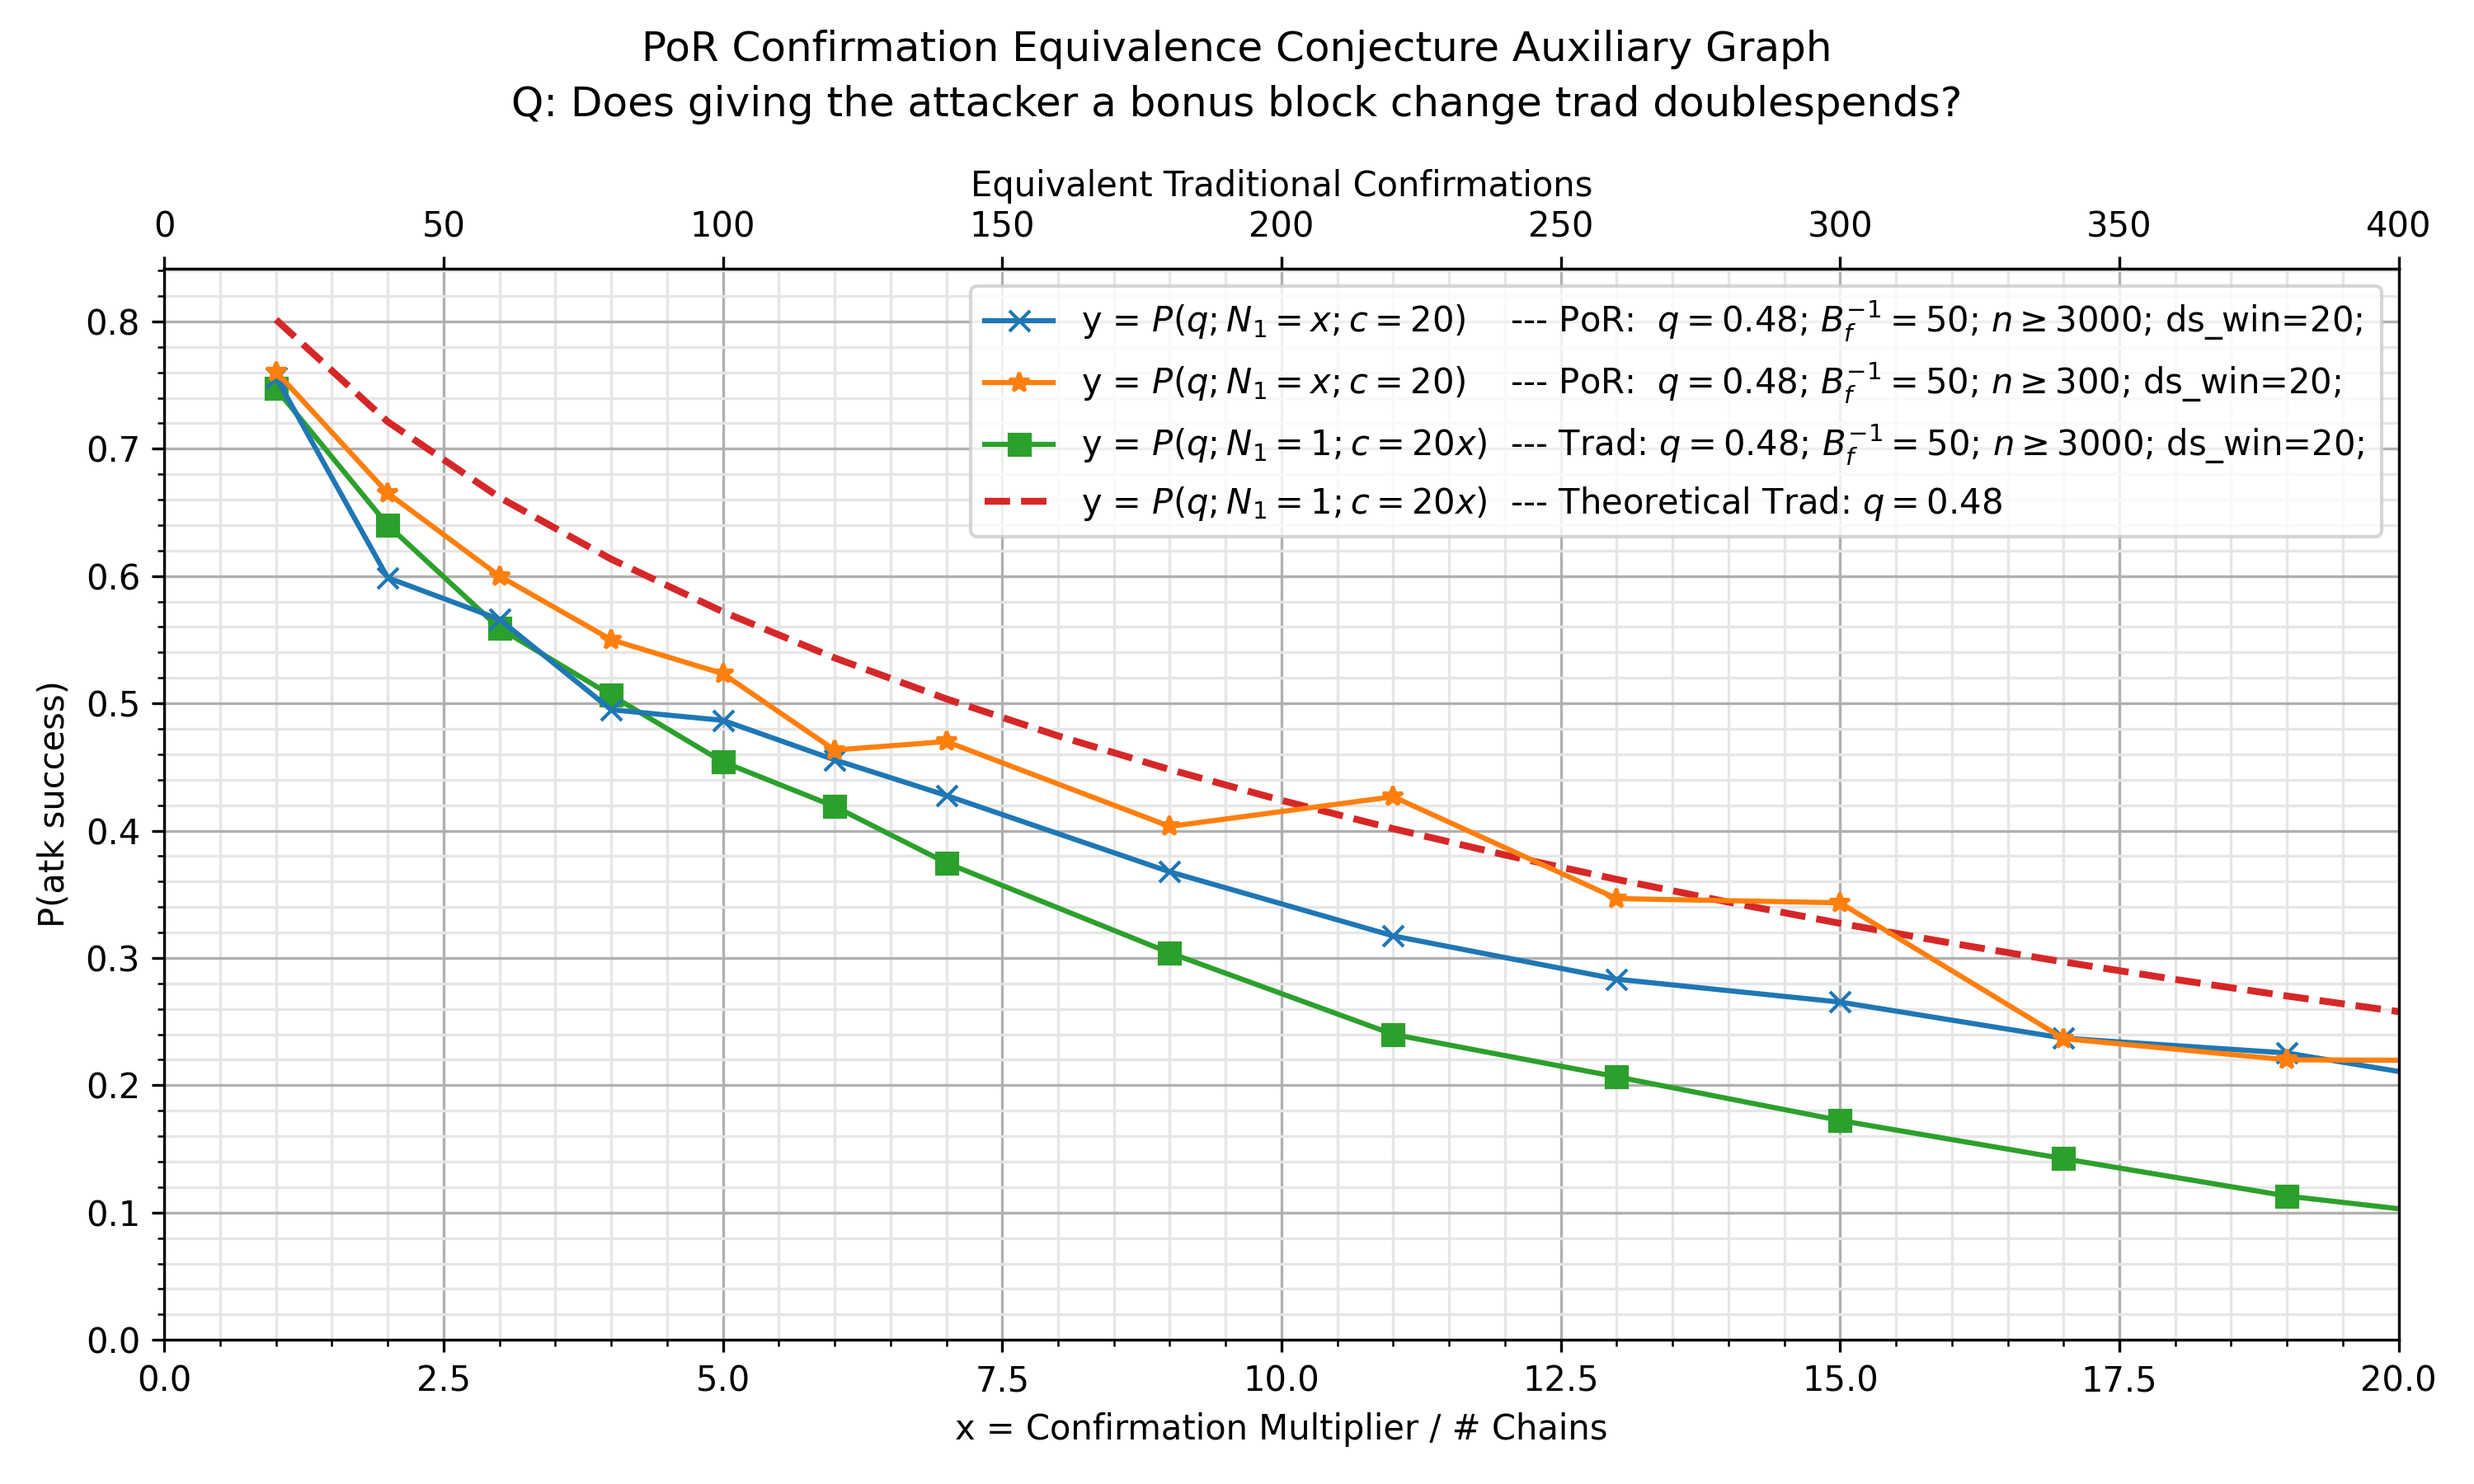
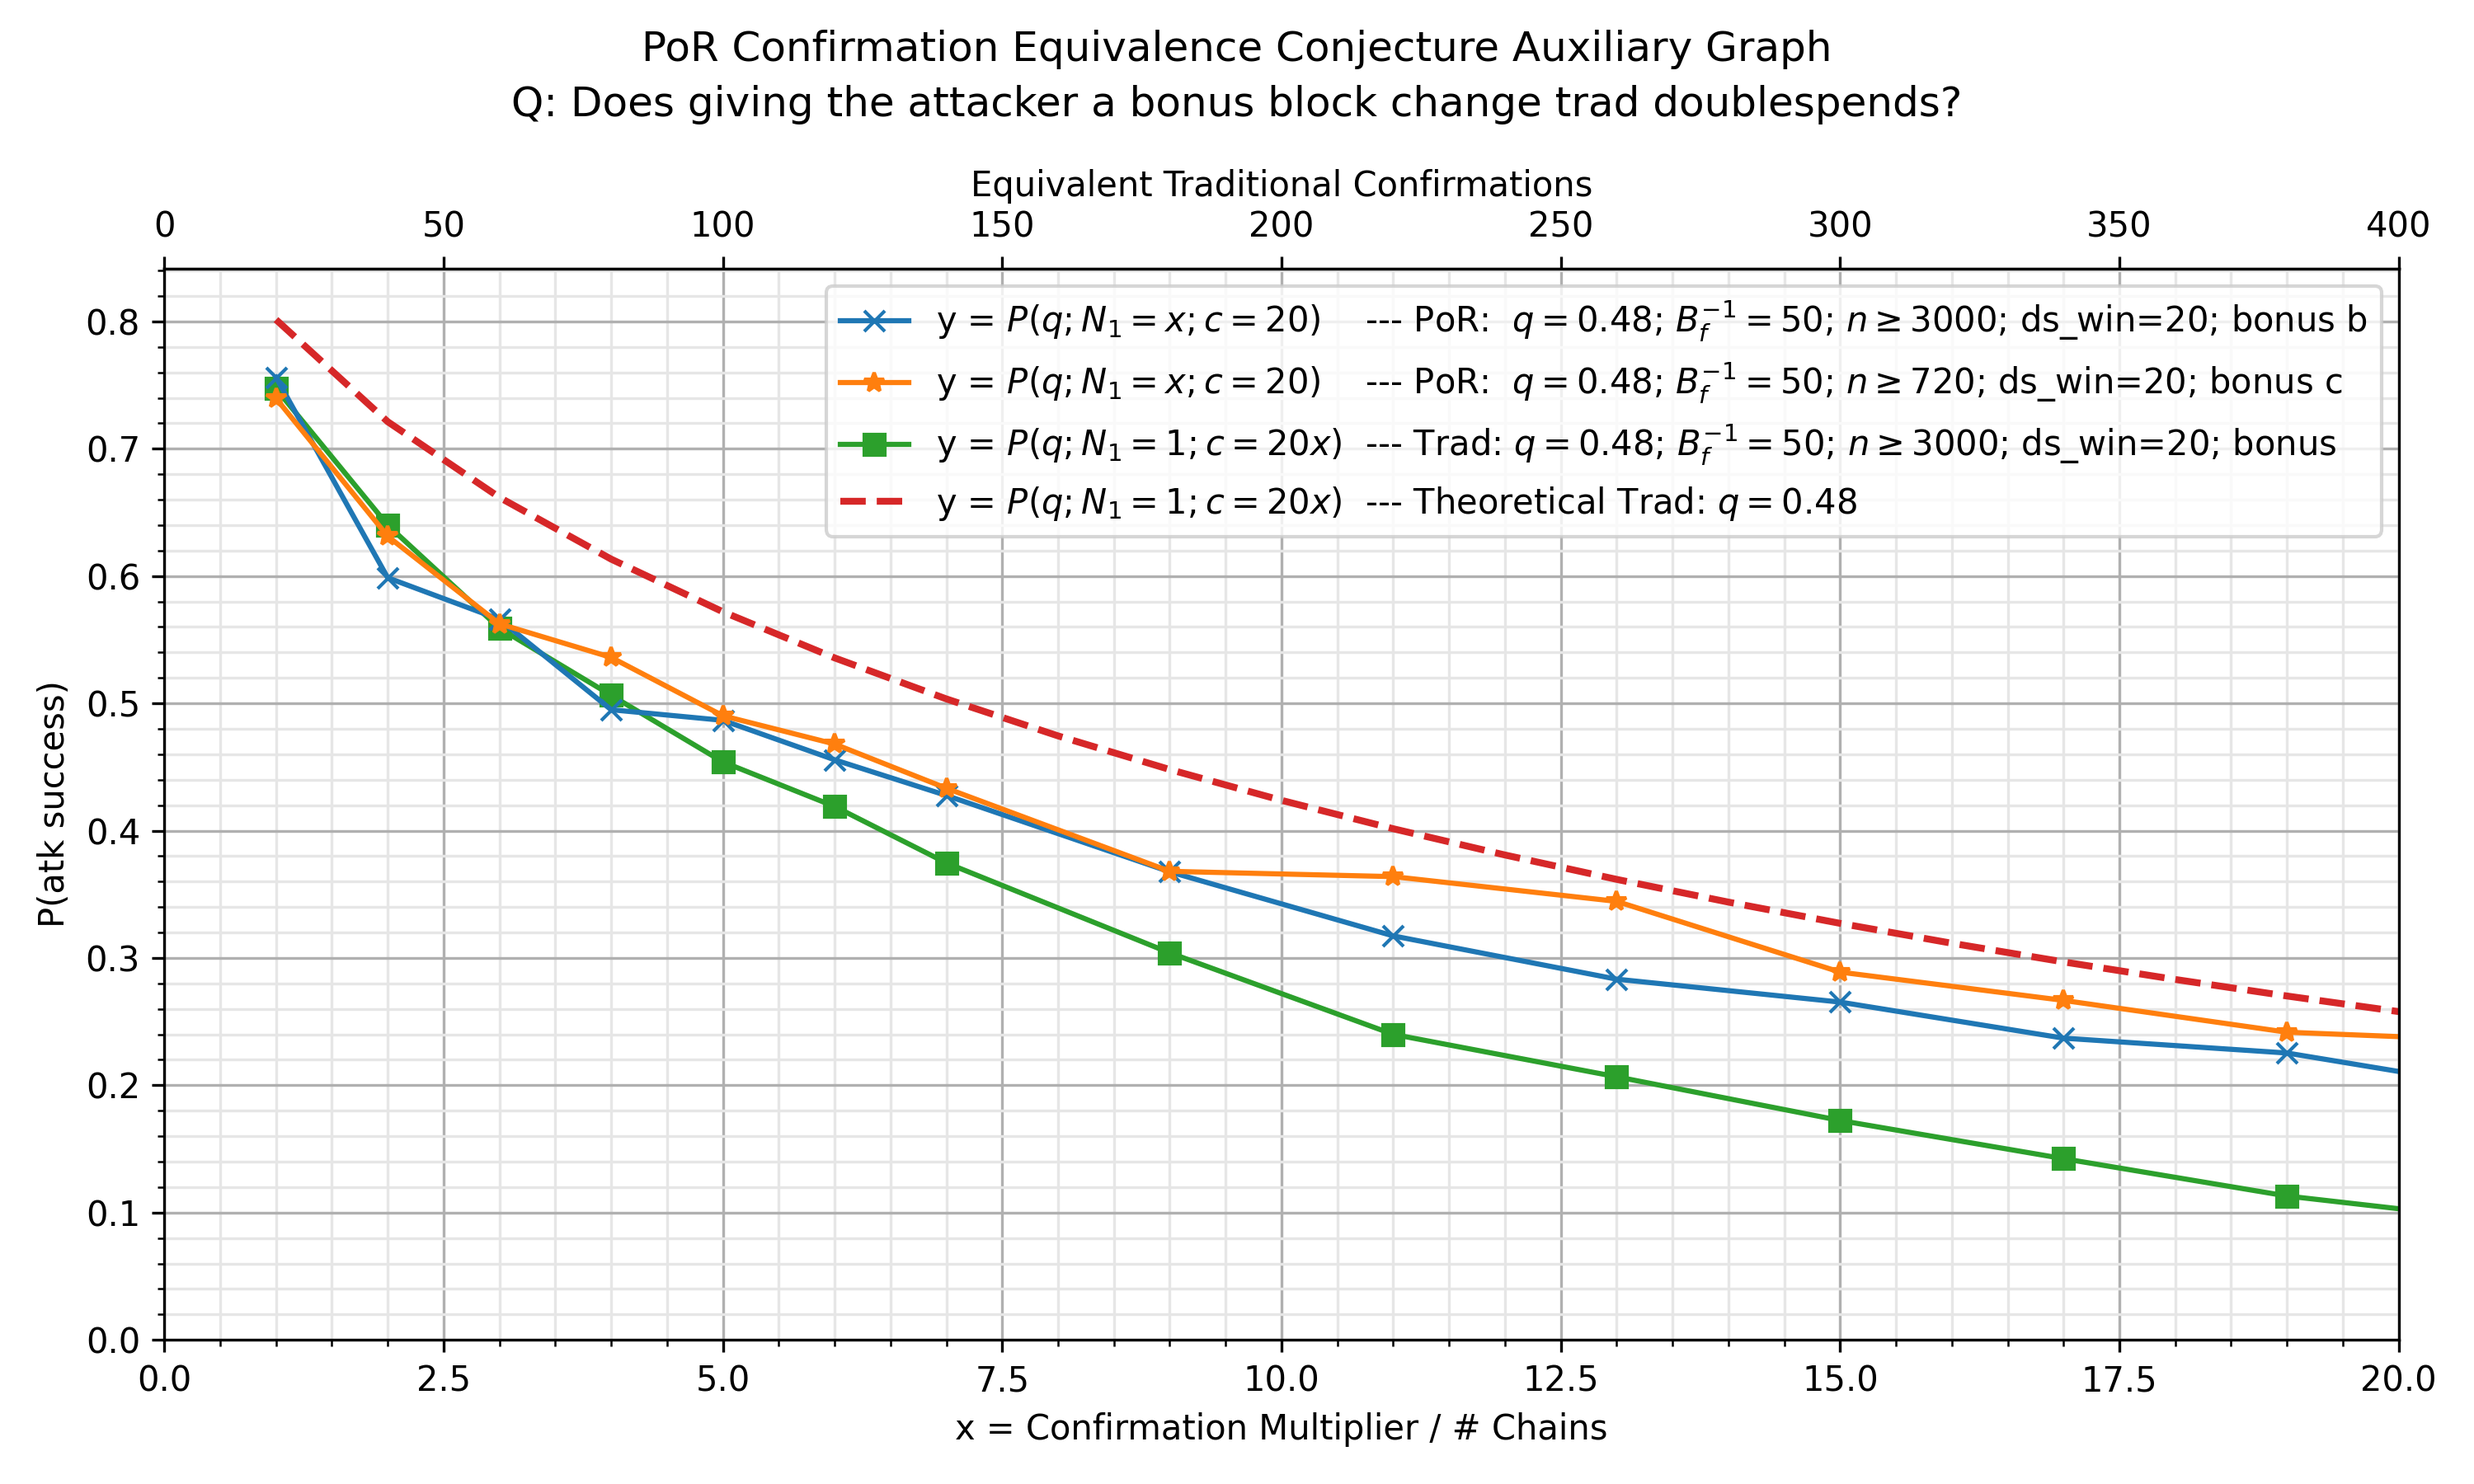
oh that looks like some nice data

diff --git a/experiments/por-sim-rs/bin/py_stats.py b/experiments/por-sim-rs/bin/py_stats.py
@@ -891,9 +891,10 @@ def main(filter_fname: Optional[str], n_jobs: int):
             [
                 (csv_name_f_from_exp(exp)(q, t, exp_num=exp, hashname=hn, **kw), 'por', extra)
                 for exp, hn, extra, kw in [
-                    ('20', 'xxh3', 'HR=50, Dynamic Cutoff', dict()),
-                    ('19', 'xxh3', 'HR=50, Late Cutoff', dict()),
-                    ('22b', 'xxh3', 'HR=50, xxh3', dict(bt=50, hr=50)),
+                    ('20', 'xxh3', 'no bonus', dict()),
+                    ('19', 'xxh3', 'no bonus', dict()),
+                    ('22b', 'xxh3', 'bonus b', dict()),
+                    ('22c', 'xxh3', 'bonus c', dict()),
                 ]
             ],
             "\n".join([
@@ -909,9 +910,9 @@ def main(filter_fname: Optional[str], n_jobs: int):
             [
                 (csv_name_f_from_exp(exp)(q, t, exp_num=exp, hashname=hn, **kw), ty, extra)
                 for exp, hn, ty, extra, kw in [
-                    ('22b', 'xxh3', 'por', None, dict()),
-                    ('22c', 'xxh3', 'por', None, dict()),
-                    ('22aux', 'xxh3', 'trad', None, dict()),
+                    ('22b', 'xxh3', 'por', 'bonus b', dict()),
+                    ('22c', 'xxh3', 'por', 'bonus c', dict()),
+                    ('22aux', 'xxh3', 'trad', 'bonus', dict()),
                 ]
             ],
             "\n".join([
